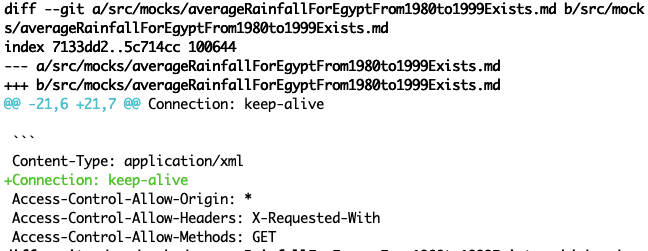
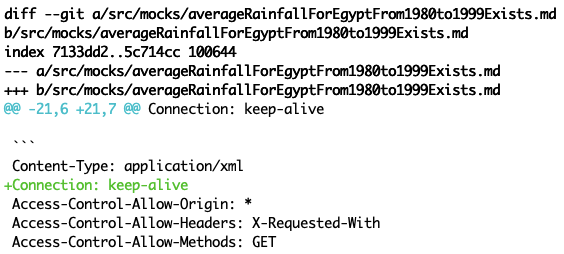
more on tcks

diff --git a/_includes/sections/tcks.html b/_includes/sections/tcks.html
@@ -165,8 +165,16 @@ fi<br></code></pre></div>
                     diffing of the changed recording. Inneed, XML and payloads can be reformatted to be prettier still
                     in the markdown.
                 </p>
-                
+
                 <img src="/static/assets/img/landing/a_diff.png" style="max-width:100%;">
+
+                <p>
+                    In this case World Bank's Climate API responded one day with an extra "Keep Alive" header. And
+                    the developer investigating decided it was probably OK to assume that it would be a regular
+                    feature of the API.  XML/JSON payload differences can be multi-line of course. Committing the
+                    change (after a dev-workstation reproduction, means the same thing will not cause a TCK failure
+                    in the future.
+                </p>
             </div>
         </div>
     </div>
